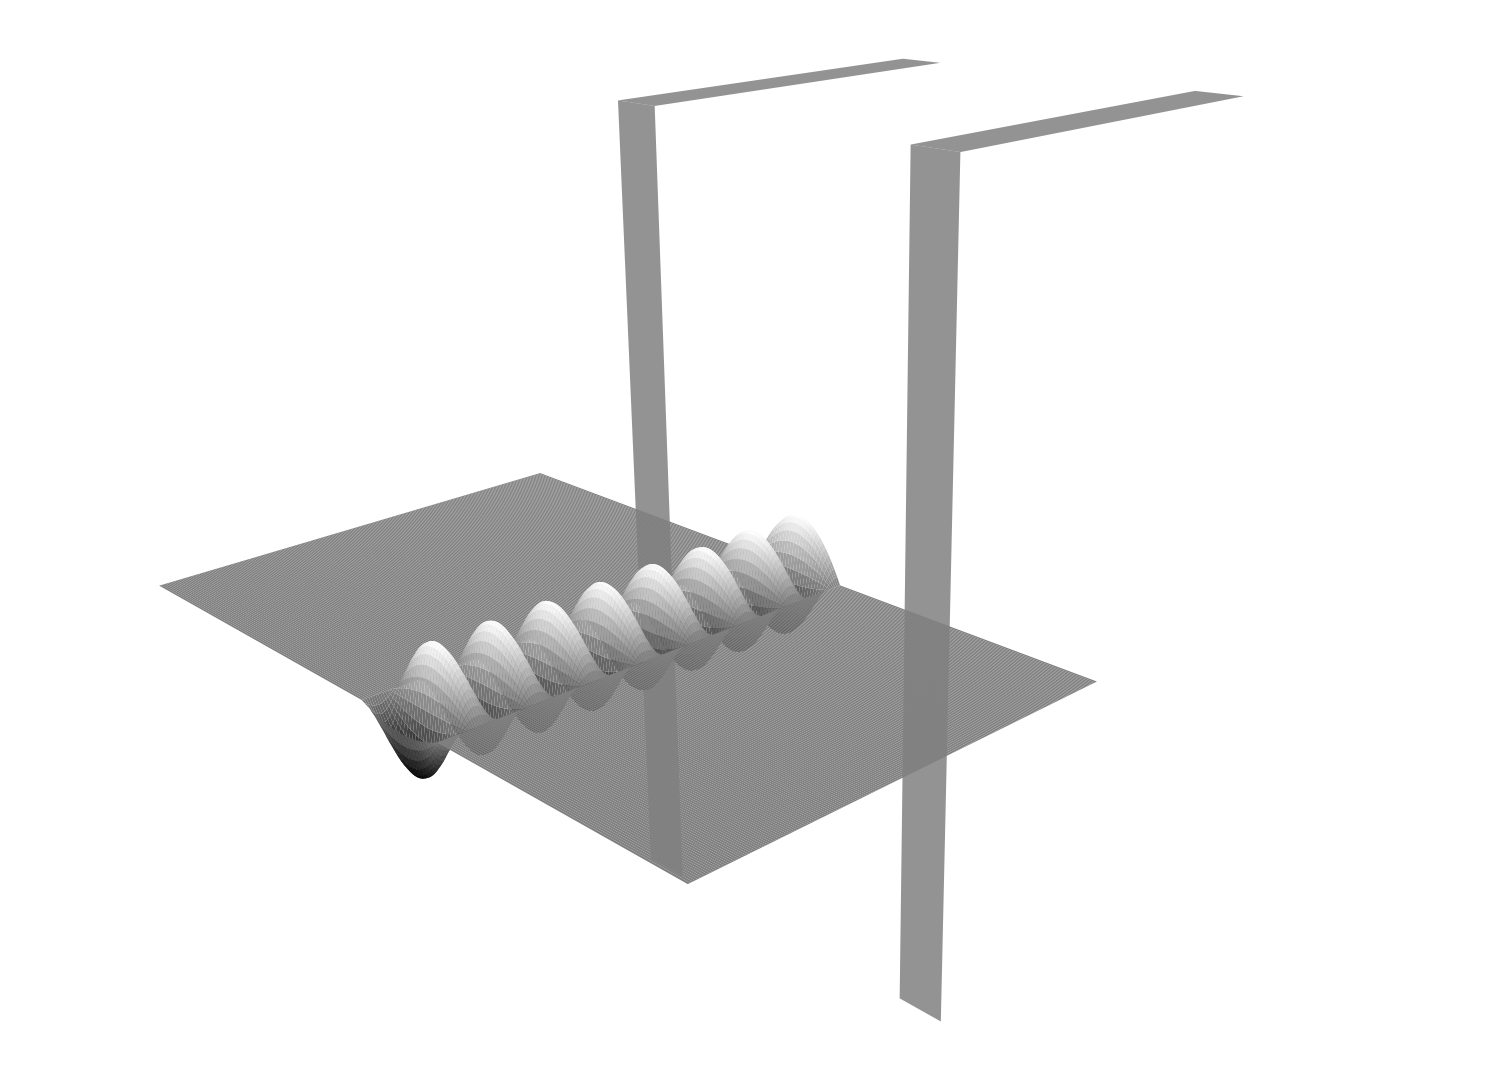
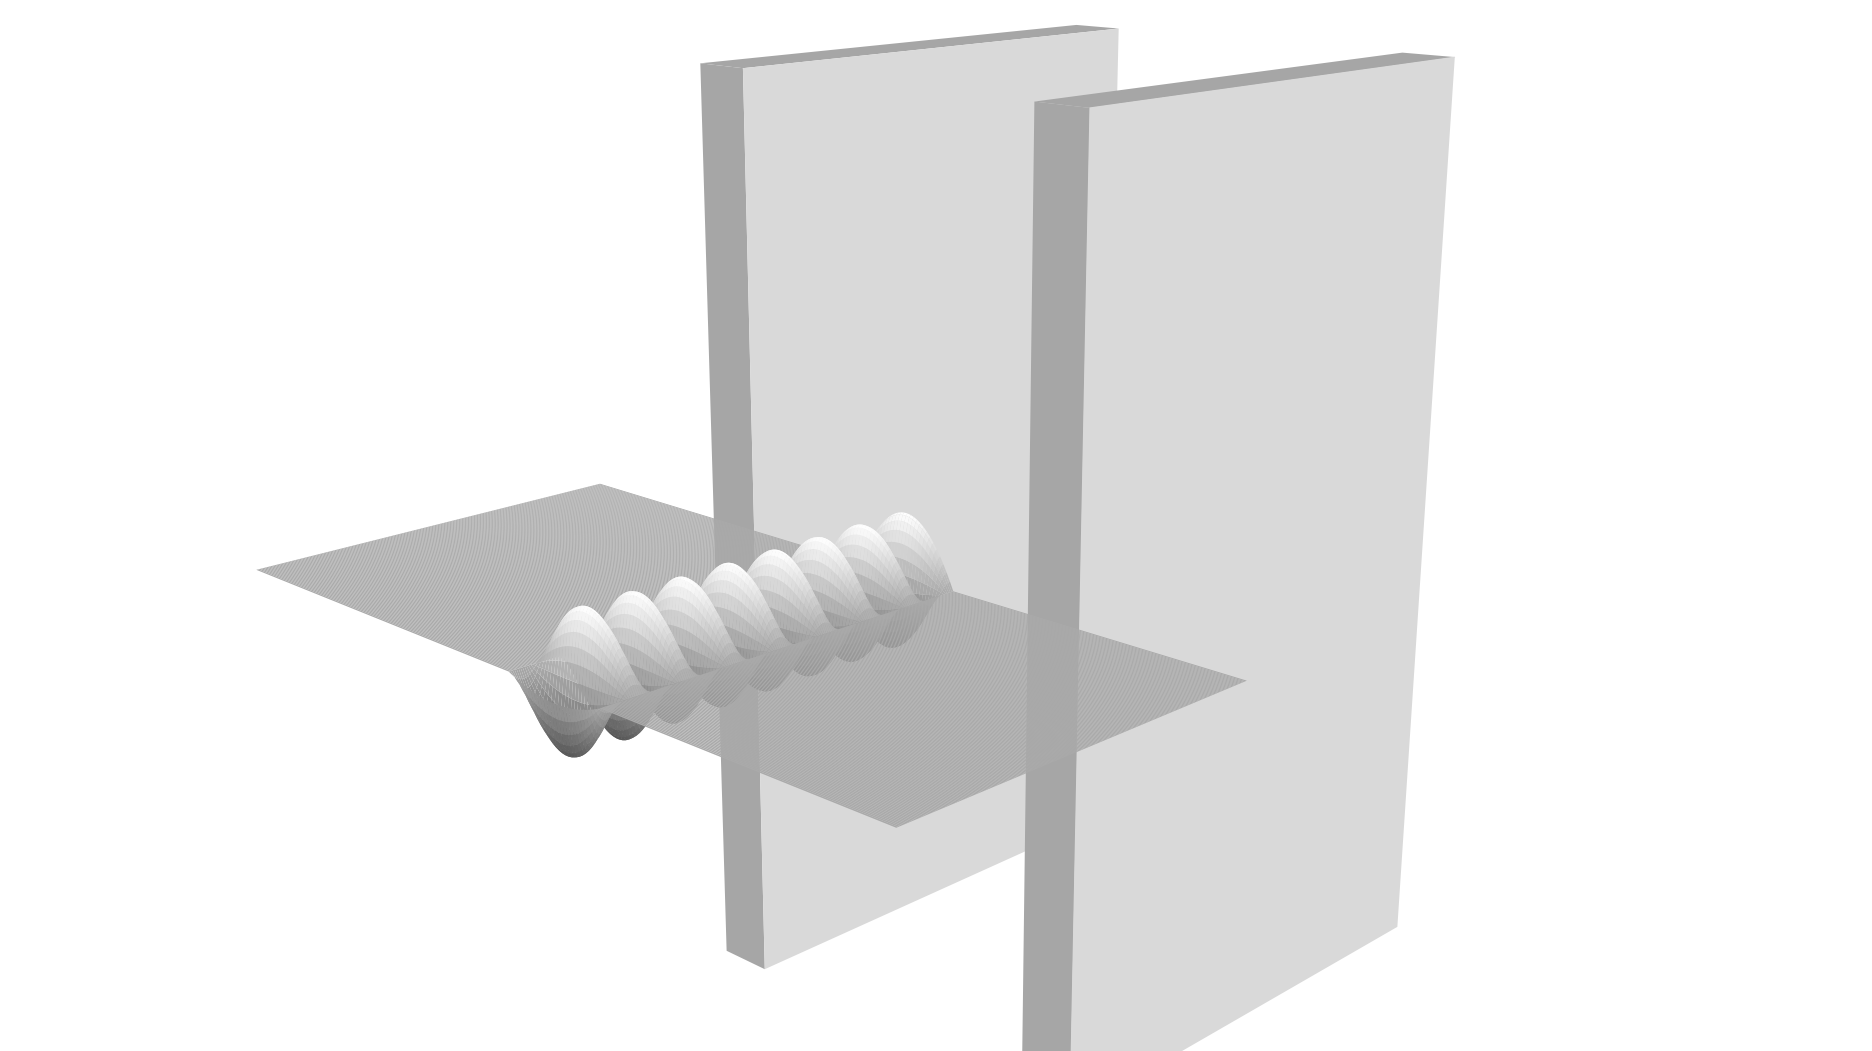
Improving visualization tag images.

diff --git a/index.html b/index.html
@@ -104,7 +104,7 @@
 									<div class="features">
 										<article>
 											<a href="visualizations/basic/index.html" class="image">
-												<img src="images/basic_3_layer/3d_input_field.png" 
+												<img src="images/basic_3_layer/3d_input_field_white.png" 
 												alt="Three layer slab waveguide and Input field."
 												style="border: 1px solid rgb(195, 194, 194);"/></a>
 											<div class="inner">
